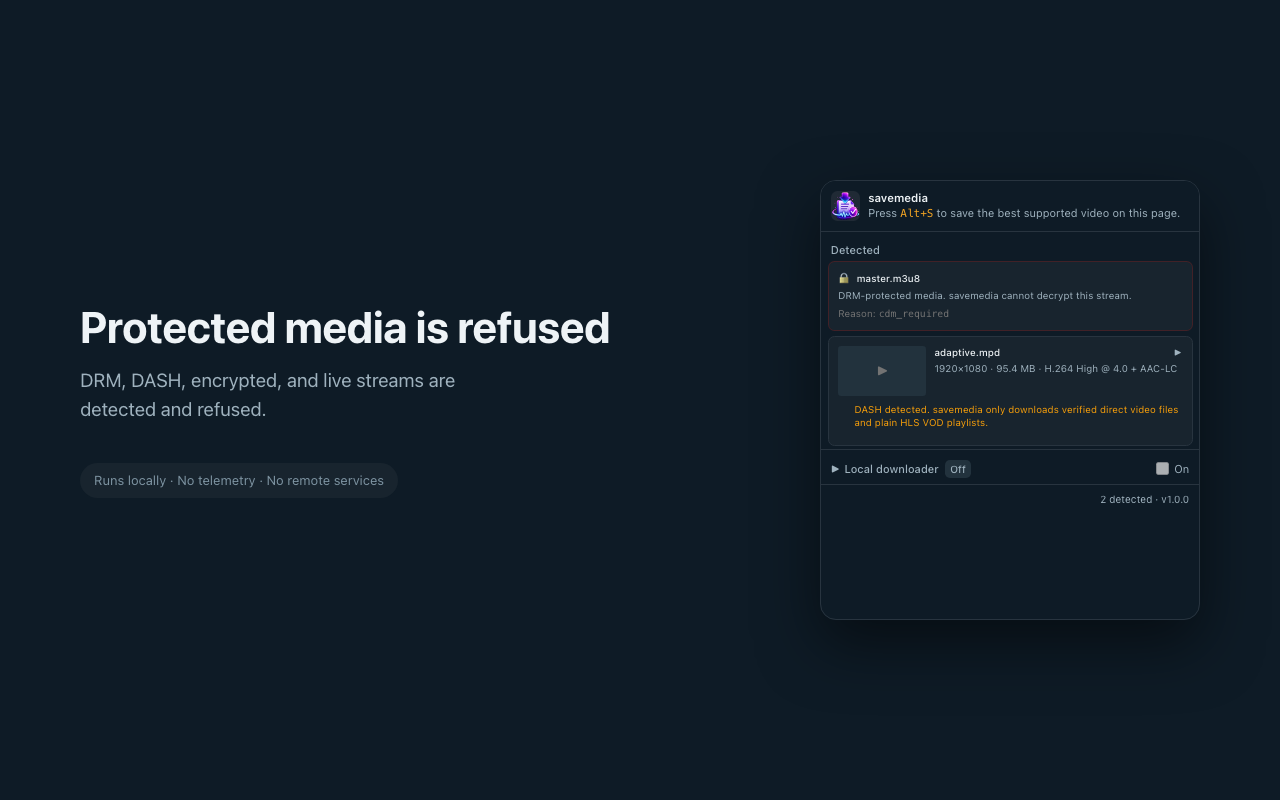
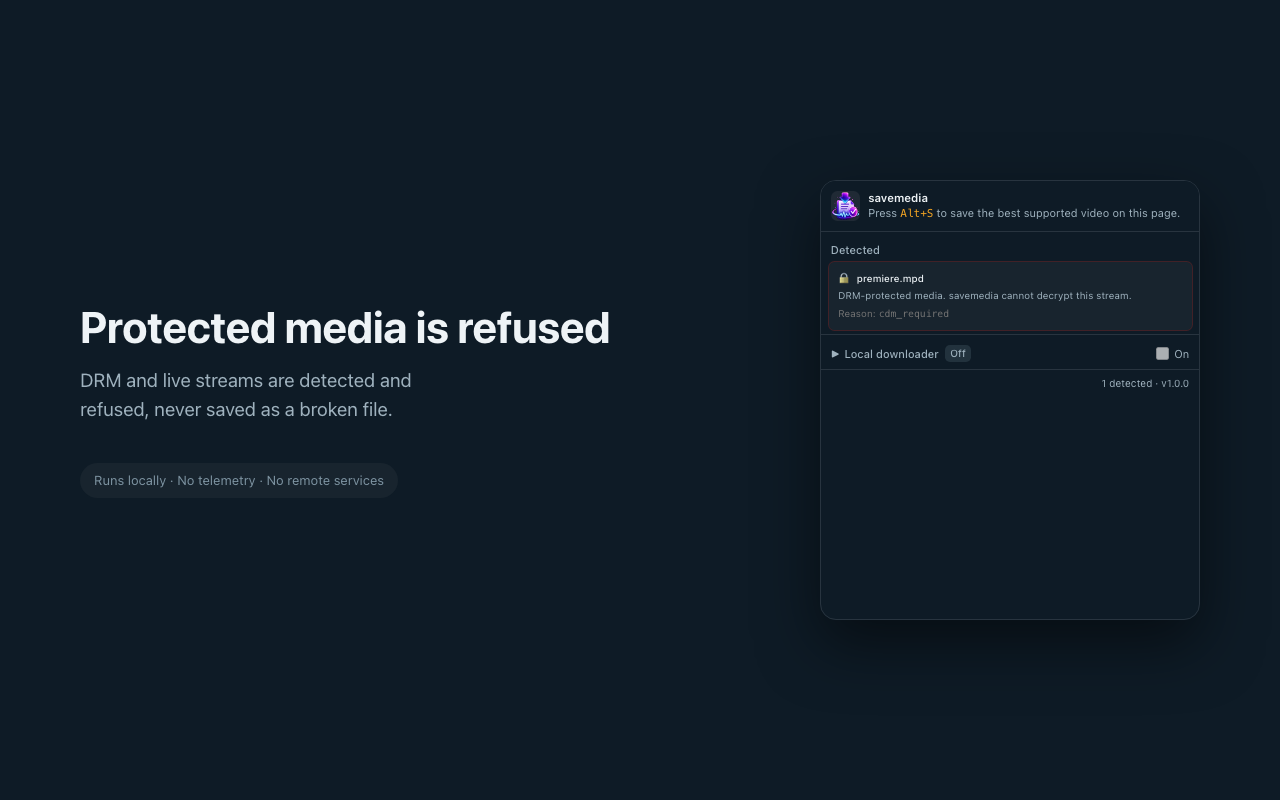
Name unsupported media on Alt+S, let the popup window follow the active tab, truthful refusal screenshot

diff --git a/packages/extension/tests/unit/popup/follow-active-tab.test.ts b/packages/extension/tests/unit/popup/follow-active-tab.test.ts
@@ -1,0 +1,103 @@
+import { afterEach, beforeEach, describe, expect, it, vi } from "vitest";
+import { followActiveTab } from "../../../src/popup/App";
+
+type Listener<T extends unknown[]> = (...args: T) => void;
+
+/** A chrome stub with just the tab and window events the companion window uses. */
+function stubChrome(ownWindowId = 99) {
+  const activated: Listener<[{ tabId: number; windowId: number }]>[] = [];
+  const focused: Listener<[number]>[] = [];
+  const updated: Listener<[number, { status?: string }, { id: number; url?: string }]>[] = [];
+  const tabs: Record<number, { id: number; windowId: number; url: string }> = {
+    1: { id: 1, windowId: 10, url: "http://127.0.0.1:5174/page/direct.html" },
+    2: { id: 2, windowId: 10, url: "http://127.0.0.1:5174/page/av-merge.html" },
+    3: { id: 3, windowId: 20, url: "http://127.0.0.1:5174/page/hls.html" },
+    9: { id: 9, windowId: ownWindowId, url: "chrome-extension://x/src/popup/index.html?tabId=1" },
+  };
+  const remove = <T>(list: T[]) => vi.fn((fn: T) => list.splice(list.indexOf(fn), 1));
+  const chromeStub = {
+    runtime: { lastError: undefined },
+    windows: {
+      WINDOW_ID_NONE: -1,
+      getCurrent: vi.fn((cb: (w: { id: number }) => void) => cb({ id: ownWindowId })),
+      onFocusChanged: { addListener: vi.fn((fn: Listener<[number]>) => focused.push(fn)), removeListener: remove(focused) },
+    },
+    tabs: {
+      get: vi.fn((id: number, cb: (t: unknown) => void) => cb(tabs[id])),
+      query: vi.fn((q: { windowId: number }, cb: (t: unknown[]) => void) =>
+        cb(Object.values(tabs).filter(t => t.windowId === q.windowId).slice(-1))),
+      onActivated: { addListener: vi.fn((fn: (typeof activated)[number]) => activated.push(fn)), removeListener: remove(activated) },
+      onUpdated: { addListener: vi.fn((fn: (typeof updated)[number]) => updated.push(fn)), removeListener: remove(updated) },
+    },
+  };
+  return { chromeStub, activated, focused, updated };
+}
+
+describe("detached popup window follows the active tab", () => {
+  let previous: unknown;
+  beforeEach(() => { previous = globalThis.chrome; });
+  afterEach(() => { (globalThis as { chrome: unknown }).chrome = previous; });
+
+  function setup(currentTab = 1) {
+    const stub = stubChrome();
+    (globalThis as { chrome: unknown }).chrome = stub.chromeStub;
+    const start = vi.fn();
+    const current = { current: currentTab as number | null };
+    start.mockImplementation((id: number | null) => { current.current = id; });
+    const cleanup = followActiveTab(start, current);
+    return { ...stub, start, current, cleanup };
+  }
+
+  it("switches to a tab activated in the browser window", () => {
+    const { activated, start } = setup();
+    activated.forEach(fn => fn({ tabId: 2, windowId: 10 }));
+    expect(start).toHaveBeenCalledWith(2, "http://127.0.0.1:5174/page/av-merge.html");
+  });
+
+  it("switches to the active tab of another browser window when that window gains focus", () => {
+    const { focused, start } = setup();
+    focused.forEach(fn => fn(20));
+    expect(start).toHaveBeenCalledWith(3, "http://127.0.0.1:5174/page/hls.html");
+  });
+
+  it("ignores its own window, which has no page to inspect", () => {
+    const { activated, focused, start } = setup();
+    activated.forEach(fn => fn({ tabId: 9, windowId: 99 }));
+    focused.forEach(fn => fn(99));
+    expect(start).not.toHaveBeenCalled();
+  });
+
+  it("ignores focus leaving the browser entirely", () => {
+    const { focused, start } = setup();
+    focused.forEach(fn => fn(-1));
+    expect(start).not.toHaveBeenCalled();
+  });
+
+  it("does not reload when the already followed tab is activated again", () => {
+    const { activated, start } = setup(2);
+    activated.forEach(fn => fn({ tabId: 2, windowId: 10 }));
+    expect(start).not.toHaveBeenCalled();
+  });
+
+  it("re-reads the list when the followed tab finishes loading a new page", () => {
+    const { updated, start } = setup(1);
+    updated.forEach(fn => fn(1, { status: "loading" }, { id: 1 }));
+    expect(start).not.toHaveBeenCalled();
+    updated.forEach(fn => fn(1, { status: "complete" }, { id: 1, url: "http://127.0.0.1:5174/page/low.html" }));
+    expect(start).toHaveBeenCalledWith(1, "http://127.0.0.1:5174/page/low.html");
+  });
+
+  it("ignores page loads in tabs it is not following", () => {
+    const { updated, start } = setup(1);
+    updated.forEach(fn => fn(2, { status: "complete" }, { id: 2, url: "x" }));
+    expect(start).not.toHaveBeenCalled();
+  });
+
+  it("removes every listener on cleanup", () => {
+    const { activated, focused, updated, cleanup } = setup();
+    cleanup();
+    expect(activated).toHaveLength(0);
+    expect(focused).toHaveLength(0);
+    expect(updated).toHaveLength(0);
+  });
+});

diff --git a/packages/extension/src/popup/App.tsx b/packages/extension/src/popup/App.tsx
@@ -22,6 +22,53 @@ function requestSnapshot(tabId: number, cb: (snap: PageMediaSnapshot | null) => 
   });
 }
 
+/**
+ * The detached window is a companion to whatever the user is looking at, not
+ * a snapshot of the tab it was opened from: switching tabs or windows used to
+ * leave it listing the old page. It follows the active tab of the focused
+ * browser window, skips its own window (which has no page to inspect), and
+ * re-reads the list when the followed tab finishes loading a new page.
+ * Returns the cleanup for the effect.
+ */
+export function followActiveTab(
+  start: (id: number | null, url: string | null) => void,
+  current: { readonly current: number | null },
+): () => void {
+  let ownWindowId: number | null = null;
+  chrome.windows.getCurrent(win => {
+    void chrome.runtime.lastError;
+    ownWindowId = win?.id ?? null;
+  });
+
+  const follow = (tab: chrome.tabs.Tab | undefined): void => {
+    if (!tab?.id || tab.windowId === ownWindowId || tab.id === current.current) return;
+    start(tab.id, tab.url ?? null);
+  };
+  const onActivated = (info: { tabId: number; windowId: number }): void => {
+    if (info.windowId === ownWindowId) return;
+    chrome.tabs.get(info.tabId, tab => {
+      void chrome.runtime.lastError;
+      follow(tab);
+    });
+  };
+  const onFocusChanged = (windowId: number): void => {
+    if (windowId === chrome.windows.WINDOW_ID_NONE || windowId === ownWindowId) return;
+    chrome.tabs.query({ active: true, windowId }, tabs => follow(tabs[0]));
+  };
+  const onUpdated = (tabId: number, info: { status?: string }, tab: chrome.tabs.Tab): void => {
+    if (tabId === current.current && info.status === "complete") start(tabId, tab.url ?? null);
+  };
+
+  chrome.tabs.onActivated.addListener(onActivated);
+  chrome.windows.onFocusChanged.addListener(onFocusChanged);
+  chrome.tabs.onUpdated.addListener(onUpdated);
+  return () => {
+    chrome.tabs.onActivated.removeListener(onActivated);
+    chrome.windows.onFocusChanged.removeListener(onFocusChanged);
+    chrome.tabs.onUpdated.removeListener(onUpdated);
+  };
+}
+
 // Read the shipped version from the manifest so the footer never drifts from
 // the package version. Optional-chained because the test chrome mock and the
 // screenshot harness do not stub getManifest.
@@ -45,17 +92,26 @@ export function App({ initialDescriptors = [], initialStatuses = {}, skipFetch =
   const asWindow = windowTabId() !== null;
 
   useEffect(() => {
-    if (skipFetch) return;
+    if (skipFetch) return undefined;
     const start = (id: number | null, url: string | null) => {
+      if (id !== tabIdRef.current) {
+        // A different page: drop the previous tab's items at once instead of
+        // showing them until the new list arrives.
+        setDescriptors([]);
+        setSnapshot(null);
+      }
       tabIdRef.current = id;
       setTabId(id);
       setPageUrl(url);
       if (id === null) return;
       const msg: PopupToBackgroundMessage = { type: "list", tabId: id };
       chrome.runtime.sendMessage(msg, (response: unknown) => {
+        if (tabIdRef.current !== id) return;
         if (isBackgroundToPopupMessage(response) && response.type === "descriptors") setDescriptors(response.descriptors);
       });
-      requestSnapshot(id, setSnapshot);
+      requestSnapshot(id, snap => {
+        if (tabIdRef.current === id) setSnapshot(snap);
+      });
     };
     const fixed = windowTabId();
     if (fixed !== null) {
@@ -63,9 +119,10 @@ export function App({ initialDescriptors = [], initialStatuses = {}, skipFetch =
         void chrome.runtime.lastError;
         start(tab?.id ?? fixed, tab?.url ?? null);
       });
-      return;
+      return followActiveTab(start, tabIdRef);
     }
     chrome.tabs.query({ active: true, currentWindow: true }, tabs => start(tabs[0]?.id ?? null, tabs[0]?.url ?? null));
+    return undefined;
   }, [skipFetch]);
 
   // Players attach their <video> late; refresh the snapshot when the list changes.

diff --git a/packages/extension/scripts/screenshot/harness.tsx b/packages/extension/scripts/screenshot/harness.tsx
@@ -7,10 +7,9 @@ import { App } from "../../src/popup/App";
 import {
   directDescriptor,
   hlsDescriptor,
-  dashDescriptor,
   drmDescriptor,
 } from "../../tests/unit/popup/helpers/descriptors";
-import type { StreamDescriptor, StreamId } from "@savemedia/core";
+import type { StreamDescriptor } from "@savemedia/core";
 
 interface Scene {
   readonly id: string;
@@ -32,7 +31,7 @@ const SCENES: readonly Scene[] = [
   {
     id: "02-stream-support",
     caption: "Knows what it can finish",
-    sub: "Direct MP4, WebM, MKV and plain HLS VOD, assembled locally, no remote server.",
+    sub: "Direct files, HLS and clear DASH, assembled locally with no remote server.",
     descriptors: [
       hlsDescriptor({ title: "documentary-1080p.m3u8" }),
     ],
@@ -40,10 +39,12 @@ const SCENES: readonly Scene[] = [
   {
     id: "03-refusal-safety",
     caption: "Protected media is refused",
-    sub: "DRM, DASH, encrypted, and live streams are detected and refused.",
+    // Clear DASH and AES-128 HLS with a key in the clear are saved now, so
+    // this scene must not show a refused DASH item or say "encrypted" as if
+    // every encrypted stream were refused.
+    sub: "DRM and live streams are detected and refused, never saved as a broken file.",
     descriptors: [
-      drmDescriptor("cdm_required"),
-      dashDescriptor({ title: "adaptive.mpd", id: "stream-dash-shot" as StreamId }),
+      { ...drmDescriptor("cdm_required"), title: "premiere.mpd" },
     ],
   },
 ];

diff --git a/packages/extension/src/background/router.ts b/packages/extension/src/background/router.ts
@@ -306,6 +306,20 @@ export function createRouter(deps: RouterDeps): Router {
           error: dispatchRefusalToError(protectedMedia.drm.reason, protectedMedia),
         };
       }
+      // Media the engine cannot finish is media too: an audio-less DASH page
+      // said "Nothing to save". Name the refusal. It keeps its own
+      // delegability, so dash_unsupported still reaches the local downloader
+      // when that is on, which is the documented DASH fallback.
+      for (const candidate of descriptors) {
+        const plan = dispatch(candidate, bestDownloadChoice(candidate));
+        if (plan.kind === "refuse") {
+          return {
+            kind: "failed",
+            streamId: candidate.id,
+            error: dispatchRefusalToError(plan.reason, candidate),
+          };
+        }
+      }
       return { kind: "no-media" };
     }
 

diff --git a/packages/extension/tests/e2e/classification.spec.ts b/packages/extension/tests/e2e/classification.spec.ts
@@ -604,6 +604,13 @@ test.describe("extension classifies real fixture pages", () => {
     expect(labels(toasts)).not.toContain("Nothing to save");
   });
 
+  test("Alt+S on an audio-less DASH page says Not saved with the reason, never Nothing to save", async () => {
+    const toasts = await altSToasts("dash", ["Not saved", "Nothing to save", "Local downloader"]);
+    expect(labels(toasts), `toasts: ${JSON.stringify(toasts)}`).toContain("Not saved");
+    expect(toasts.join(" "), `toasts: ${JSON.stringify(toasts)}`).toMatch(/DASH/);
+    expect(labels(toasts)).not.toContain("Nothing to save");
+  });
+
   test("Alt+S on a FairPlay-keyed HLS page ends in Not saved, not in a silent Saving", async () => {
     await clearDownloadHistory();
     const toasts = await altSToasts("hls-fairplay", ["Not saved", "Saved", "Nothing to save"]);

diff --git a/packages/core/src/errors/messages.ts b/packages/core/src/errors/messages.ts
@@ -23,7 +23,7 @@ export function userMessage(err: JobError): UserMessage {
     case "license_bound_stream":
       return {
         title: "This stream is protected",
-        body: "savemedia cannot decrypt or bypass DRM-protected media. The site uses an encrypted media license workflow that browsers handle inside a hardware-isolated decoder; the decrypted frames are never made available to extensions.",
+        body: "savemedia does not save DRM-protected media. The site hands playback to the browser's protected media module, which decrypts inside an isolated decoder and never makes the frames available to extensions.",
         action: null,
       };
 

diff --git a/packages/extension/tests/unit/background/router.test.ts b/packages/extension/tests/unit/background/router.test.ts
@@ -231,6 +231,13 @@ describe("router — startBestDownload", () => {
     expect(await r.startBestDownload(1)).toMatchObject({ kind: "started" });
   });
 
+  it("a page whose only media the engine cannot finish names the refusal instead of no-media", async () => {
+    const r = createRouter(deps());
+    r.addDescriptor(1, dashDescriptor());
+
+    expect(await r.startBestDownload(1)).toMatchObject({ kind: "failed", error: { code: "dash_unsupported" } });
+  });
+
   it("an empty page is still no-media", async () => {
     expect(await createRouter(deps()).startBestDownload(1)).toEqual({ kind: "no-media" });
   });

diff --git a/README.md b/README.md
@@ -26,7 +26,7 @@ file.
 | Store | Listing | Dashboard | API docs | Credentials (GitHub Actions secrets) | Notes |
 | --- | --- | --- | --- | --- | --- |
 | Chrome Web Store | [negbodmpgjhkacmdkbfdpocjanaklifn](https://chromewebstore.google.com/detail/savemedia/negbodmpgjhkacmdkbfdpocjanaklifn) | [dashboard](https://chrome.google.com/webstore/devconsole) | [docs](https://developer.chrome.com/docs/webstore/using-api) | `CWS_CLIENT_ID`, `CWS_CLIENT_SECRET`, `CWS_REFRESH_TOKEN`, `CWS_PUBLISHER_ID` | OAuth client and refresh token live in ~/.config/vitals (see keys.json) |
-| Microsoft Edge Add-ons | [214e0682-5cde-4319-9608-ed25de6643b7](https://microsoftedge.microsoft.com/addons/detail/savemedia/mmkdllnjmommekajhadhokanofjlglhk) | [dashboard](https://partner.microsoft.com/en-us/dashboard/microsoftedge/214e0682-5cde-4319-9608-ed25de6643b7/packages/dashboard) | [docs](https://learn.microsoft.com/microsoft-edge/extensions/update/api/using-addons-api) | `EDGE_API_KEY`, `EDGE_CLIENT_ID` | API key expires 2026-11-21 (70 days from 2026-09-12). Renew at https://partner.microsoft.com/en-us/dashboard/microsoftedge/publishapi, then run ~/.config/vitals/set-store-secrets.sh |
+| Microsoft Edge Add-ons | [214e0682-5cde-4319-9608-ed25de6643b7](https://microsoftedge.microsoft.com/addons/detail/savemedia/mmkdllnjmommekajhadhokanofjlglhk) | [dashboard](https://partner.microsoft.com/en-us/dashboard/microsoftedge/214e0682-5cde-4319-9608-ed25de6643b7/packages/dashboard) | [docs](https://learn.microsoft.com/microsoft-edge/extensions/update/api/using-addons-api) | `EDGE_API_KEY`, `EDGE_CLIENT_ID` | API key expires 2026-11-21 (69 days from 2026-09-13). Renew at https://partner.microsoft.com/en-us/dashboard/microsoftedge/publishapi, then run ~/.config/vitals/set-store-secrets.sh |
 | Firefox Add-ons (AMO) | [savemedia@ancplua.dev](https://addons.mozilla.org/firefox/addon/save-media/) | [dashboard](https://addons.mozilla.org/developers/addon/save-media/edit) | [docs](https://mozilla.github.io/addons-server/topics/api/addons.html) | `AMO_JWT_ISSUER`, `AMO_JWT_SECRET` | One key pair per Mozilla account, shared with the other extension repo. Readable copy in the macOS keychain (see keys.json). Never regenerate |
 <!-- store-config:end -->
 
